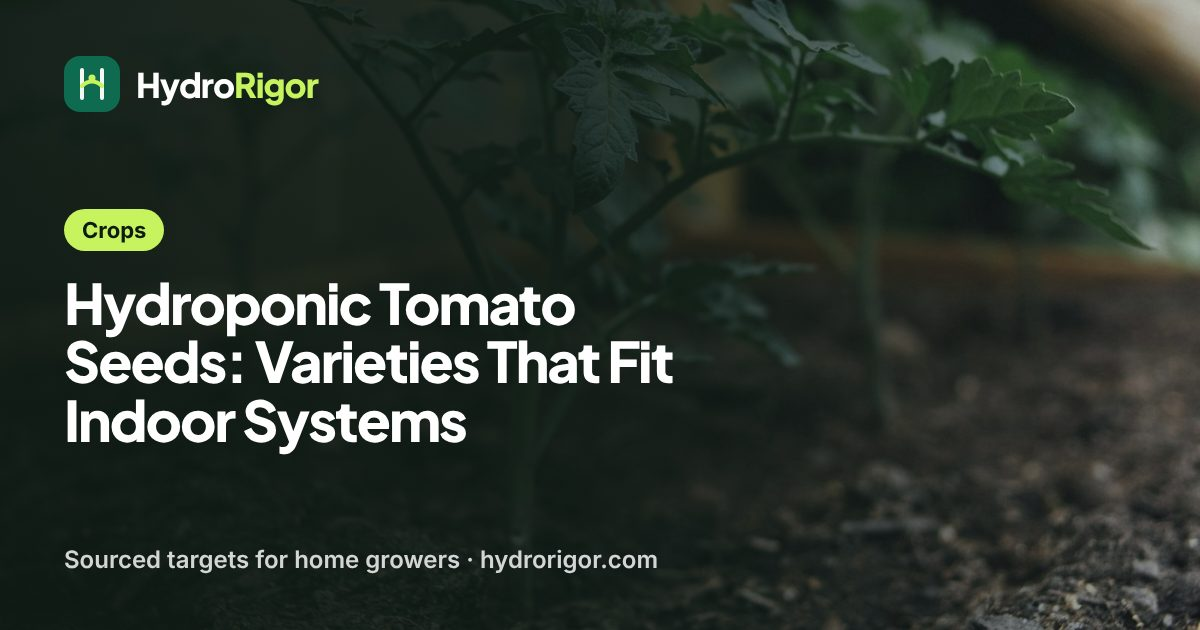
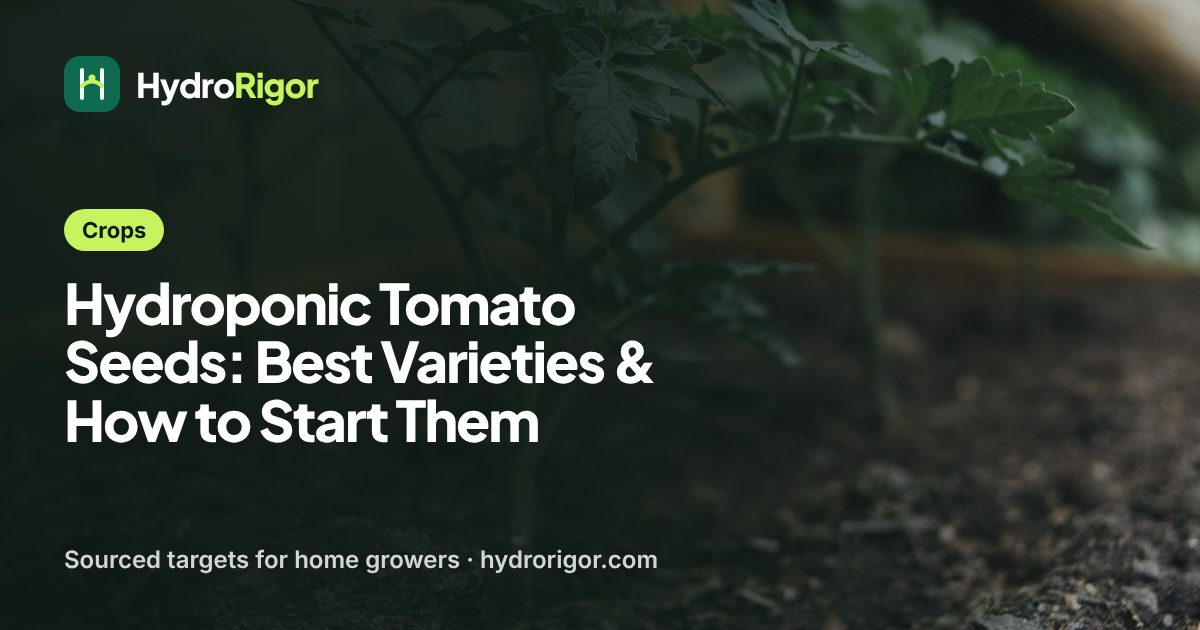
Rebuild tomato seeds guide: varieties by space and how to start them
Queue item 19. Seed chosen by mature size (micro-dwarf, compact,
determinate, indeterminate), University of Florida micro-dwarf trial
table, packet labels and resistance codes, seed-starting steps,
troubleshooting and FAQ. Two phone-size diagrams; two new sources
(UF/IFAS HS987, HortScience 2000), three locators updated from new
reading. Pinterest test now uses a guide that is still short.

Claude-Session: https://claude.ai/code/session_011zSWQv9U5GfhByfPKZnqmb

Changed region(s): [[0.0617, 0.5429, 0.555, 0.7238]]

diff --git a/src/data/editorial-sources/m06.ts b/src/data/editorial-sources/m06.ts
@@ -241,25 +241,25 @@ export const m06EditorialSources = [
     url: 'https://uthort.tennessee.edu/wp-content/uploads/sites/228/2023/11/W844-C.pdf',
     accessedDate: '2026-11-06',
     sourceType: 'university-extension',
-    locator: 'W 844-C (Bumgarner and Hochmuth, 2019): fruiting crops at EC 2.0–3.0 mS/cm for much of the season; seedlings 0.5–1.0, 1.0–1.5 at transplanting; pH often 5.5–6.0; change small recirculating tanks every one to two weeks; top up with source water or concentrate; larger plants cause quicker imbalances; Na and Cl 75 ppm upper limit; blossom-end rot and calcium movement; 8+ hours natural light; daytime 70s °F; pollinate 3–4 times a week at 60–80% humidity; 2–4 weeks to transplant, 7–10 weeks to harvest',
+    locator: 'W 844-C (Bumgarner and Hochmuth, 2019): fruiting crops at EC 2.0–3.0 mS/cm for much of the season; seedlings 0.5–1.0, 1.0–1.5 at transplanting; pH often 5.5–6.0; change small recirculating tanks every one to two weeks; top up with source water or concentrate; larger plants cause quicker imbalances; Na and Cl 75 ppm upper limit; blossom-end rot and calcium movement; 8+ hours natural light; daytime 70s °F; pollinate 3–4 times a week at 60–80% humidity; 2–4 weeks to transplant, 7–10 weeks to harvest; types: beefsteak (most common), cherry, grape, plum, roma/paste, cluster/TOV (p. 2); greenhouse-bred cultivars resist leaf mold and powdery mildew; most greenhouse cultivars indeterminate, determinates more common in home gardens and field production (p. 2); about 90–120 days from seed to first ripe fruit (p. 2); seed cubes at least 1.5 × 1.5 in of peat, coir, rockwool or foam, sow 10–15% extra, about ¼ in of water in the tray, germination 75–85 °F, above 90 °F reduces germination (p. 5); hand pollination recommended, electric toothbrush (p. 7)',
   },
   {
     id: 'ifas-tomato-cultivars',
     title: 'Tomato Cultivar Selection Considerations for Open-Field and Protected Culture in North Florida',
     publisher: 'UF/IFAS Extension',
     url: 'https://ask.ifas.ufl.edu/publication/HS1273',
-    accessedDate: '2026-09-12',
+    accessedDate: '2026-11-14',
     sourceType: 'university-extension',
-    locator: 'Growth habit, protected-culture cultivar selection, and trial context',
+    locator: 'HS1273, Types of Tomato Cultivars: determinate plants stop growing in height once flowers appear at the stem ends and mature fruit over a shorter period; indeterminate plants keep growing with lateral flower clusters only; cluster is a presentation format; hybrids are F1 crosses bred for traits such as disease resistance and are the most widely grown; open-pollinated seed breeds true; heirlooms typically have 50+ years of selection, are usually indeterminate, have little or no disease resistance, crack easily and often fail to set fruit in extreme heat. Protected Agriculture Structures: \'Trust\' the most commonly used greenhouse (hydroponic) cultivar in north Florida for several years; \'Geronimo\' and \'Big Dena\' some success in the Southeast; indeterminate greenhouse plants reach 20–30 ft from September to June, lowered about every two weeks. Table 2 footnote codes: F1/F2/F3 Fusarium wilt races 1–3, V Verticillium wilt, ASC Alternaria stem canker, St gray leaf spot, N nematodes, ToMV tomato mosaic virus, TYLCV tomato yellow leaf curl virus, TSWV tomato spotted wilt virus',
   },
   {
     id: 'usu-indoor-tomatoes',
     title: 'Growing Tomatoes in Winter',
     publisher: 'Utah State University Extension',
     url: 'https://extension.usu.edu/news_sections/gardening/tomatoes',
-    accessedDate: '2026-09-12',
+    accessedDate: '2026-11-14',
     sourceType: 'university-extension',
-    locator: 'Indoor space, cultivar size, containers, lighting, and seed starting',
+    locator: 'Varieties for indoors: Tiny Tim, Micro Tom, Terenzo and Lizzano, small plants typically 1 to 2 feet across, mostly sold as seed; smaller varieties advised indoors; 1-gallon pot for the smallest, 2- or 3-gallon for larger; a pot too large is better than too small; below 50 °F can harm plants; above 90 °F may prevent fruit set; plant tops 3–6 inches from fluorescent bulbs',
   },
   {
     id: 'psu-nutrient-programs',
@@ -539,6 +539,24 @@ export const m06EditorialSources = [
     accessedDate: '2026-11-07',
     sourceType: 'university-research',
     locator: 'Article: sweet basil in deep-flow hydroponics at EC 1.6 mS/cm, pH 6, 72 °F water and a 16-hour photoperiod; spacings 4, 6, 8, 10 and 12 in (9.3, 4.1, 2.3, 1.4 and 1.0 plants per sq ft) at DLI about 6 and 15; higher DLI added 0.3–1.6 oz per sq ft; spacing did not change individual plant weight; recommends 4-inch spacing for single-harvest basil under lights, likely too dense for repeated harvests',
+  },
+  {
+    id: 'ifas-micro-gold-hs987',
+    title: "'Micro-Gold' Miniature Dwarf Tomato (HS987)",
+    publisher: 'UF/IFAS Extension (J.W. Scott and B.K. Harbaugh), 2004',
+    url: 'https://journals.flvc.org/edis/article/download/114588/109920/160548',
+    accessedDate: '2026-11-14',
+    sourceType: 'university-extension',
+    locator: "Table 1 (Bradenton FL greenhouse, spring and fall 1993; single plants in 13-cm, 1-liter pots): height 'Micro-Gold' 12/25 cm, 'Micro-Tom' 10/23 cm, 'Yellow Canary' 22/27 cm (spring/fall); days to fruit color 'Micro-Gold' 96/74, 'Micro-Tom' 92/73; fruit weight (first five fruit) 'Micro-Gold' 7.8/9.8 g, 'Micro-Tom' 6.2/7.5 g; fruit diameter 22–27 mm; fruit per pot 'Micro-Gold' 37/19, 'Micro-Tom' 42/27. Text: 'Micro-Tom' (1989) the smallest tomato cultivar released; non-miniature dwarfs can outgrow small containers while the miniature trait is genetic; 'Micro-Gold' resistant to Fusarium wilt race 1 and gray leaf spot",
+  },
+  {
+    id: 'scott-micro-tina-2000',
+    title: "'Micro-Tina' and 'Micro-Gemma' Miniature Dwarf Tomatoes (HortScience 35(4):774–775)",
+    publisher: 'University of Florida (J.W. Scott, B.K. Harbaugh) and USDA-ARS (E.A. Baldwin), 2000',
+    url: 'https://journals.ashs.org/downloadpdf/view/journals/hortsci/35/4/article-p774.pdf',
+    accessedDate: '2026-11-14',
+    sourceType: 'university-research',
+    locator: "Table 1 (Bradenton FL greenhouse, 1998; single plants in 13-cm, 1-liter pots, spring/fall): height 'Micro-Tina' 11.2/23.2 cm, 'Micro-Tom' 11.6/18.8, 'Micro-Gemma' 12.0/19.2; fruit weight 6.9/5.5, 7.9/4.5, 6.2/5.9 g; fruit per pot 42/45, 39/48, 37/34; days from seeding to first fruit color 91/71, 100/78, 98/75. Text: 'Micro-Tina' red, sweeter than 'Micro-Tom', earliest; 'Micro-Gemma' gold; both resistant to Fusarium wilt race 1 and gray leaf spot; miniature dwarfs are genetically smaller (plant, fruit, leaves, stems) than normal dwarf cultivars",
   },
   {
     id: 'purdue-supplemental-light-lettuce',

diff --git a/src/data/m06-content.ts b/src/data/m06-content.ts
@@ -29,7 +29,7 @@ const items = [
   [9, 'articles', 'crops', 'Hydroponic Lettuce Systems: NFT vs DWC vs Kratky Compared', 'hydroponic-lettuce-systems', 'transactional research', 'hydroponic lettuce systems', 'VERIFIED_2026-09-12', 1000, 28, ['uky-hydroponic-lettuce', 'ifas-lettuce-small-systems', 'ifas-kratky-set-and-forget', 'kratky-noncirculating-lettuce', 'vt-system-crop-comparisons', 'purdue-hydroponics-opportunities-2016', 'sato-modified-nft-2007', 'osu-hydro-hints-nft', 'osu-hydro-hints-dwc', 'okstate-hydroponics-hla6442', 'mu-hydroponic-farming', 'purdue-supplemental-light-lettuce', 'egro-lettuce-tipburn-2023', 'okstate-vertical-tower-hla6724', 'touliatos-vertical-lettuce-2016', 'cornell-cea-lettuce-handbook', 'ifas-lettuce-cultivars'], []],
   [10, 'articles', 'crops', 'Hydroponic Lettuce Seeds: Varieties, Germination & Storage', 'hydroponic-lettuce-seeds', 'transactional research', 'hydroponic lettuce seed', 'VERIFIED_2026-09-12', 2400, 20, ['uky-hydroponic-lettuce', 'ifas-lettuce-cultivars', 'ifas-lettuce-small-systems', 'egro-lettuce-tipburn-2023', 'cornell-cea-lettuce-handbook', 'unl-seed-storage-germination', 'illinois-seed-viability', 'sdsu-seed-storage', 'ifas-thermodormancy'], []],
   [11, 'articles', 'crops', 'Hydroponic Tomatoes: pH, EC, Light, Spacing & Pruning', 'hydroponic-tomatoes', 'transactional research', 'hydroponic tomatoes', 'VERIFIED_2026-09-12', 1900, 29, ['tennessee-fruiting-crops', 'aces-greenhouse-tomato-anr2955', 'utk-trust-tomato-density-2012', 'vt-management-basics-spes462', 'vt-system-crop-comparisons', 'purdue-supplemental-light-lettuce', 'osu-ph-ec-guide', 'ifas-hydroponic-tomato-formulation', 'osu-hydro-hints-buckets', 'ifas-volusia-dwc-bucket', 'msstate-blossom-end-rot', 'mu-hydroponic-farming'], ['/tools/ph-ec-targets/']],
-  [12, 'articles', 'crops', 'Hydroponic Tomato Seeds: Varieties That Fit Indoor Systems', 'hydroponic-tomato-seeds', 'transactional research', 'hydroponic tomatoes seeds', 'VERIFIED_2026-09-12', 480, 16, ['ifas-tomato-cultivars', 'usu-indoor-tomatoes', 'tennessee-fruiting-crops'], []],
+  [12, 'articles', 'crops', 'Hydroponic Tomato Seeds: Best Varieties & How to Start Them', 'hydroponic-tomato-seeds', 'transactional research', 'hydroponic tomatoes seeds', 'VERIFIED_2026-09-12', 480, 16, ['tennessee-fruiting-crops', 'ifas-tomato-cultivars', 'usu-indoor-tomatoes', 'ifas-micro-gold-hs987', 'scott-micro-tina-2000', 'aces-greenhouse-tomato-anr2955', 'utk-trust-tomato-density-2012', 'purdue-supplemental-light-lettuce'], ['/tools/nutrient-mixing-calculator/']],
   [13, 'articles', 'nutrients', "Hydroponic Nutrients: pH, EC & Mixing Guide for Beginners", 'hydroponic-nutrients', 'informational', 'hydroponic nutrients', 'VERIFIED_2026-09-12', 3600, 22, ['psu-plant-nutrition', 'mu-nutrient-solutions', 'osu-ph-ec-guide', 'ua-strawberry-irrigation'], ['/tools/ph-ec-targets/', '/tools/nutrient-mixing-calculator/']],
   [14, 'articles', 'nutrients', 'Hydroponic Nutrient Solution: ppm, EC, pH & When to Change', 'hydroponic-nutrient-solution', 'transactional research', 'hydroponic nutrients solution', 'VERIFIED_2026-09-12', 720, 25, ['mu-nutrient-solutions', 'psu-nutrient-programs', 'psu-plant-nutrition', 'osu-ph-ec-guide', 'ifas-hydroponic-tomato-formulation', 'ohio-state-tomato-nutrient-solution', 'tennessee-fruiting-crops', 'uky-hydroponic-lettuce', 'uky-monitoring-ph-ec', 'ifas-lettuce-small-systems', 'vt-system-crop-comparisons', 'sato-modified-nft-2007', 'gomez-basil-small-scale-2020', 'ua-strawberry-irrigation', 'msstate-tomato-ph', 'msu-calibrate-ph-ec'], ['/tools/ph-ec-targets/', '/tools/nutrient-mixing-calculator/']],
   [15, 'articles', 'nutrients', 'Organic Hydroponic Nutrients: What Works and What to Know', 'organic-hydroponic-nutrients', 'transactional research', 'hydroponic nutrients organic', 'VERIFIED_2026-09-12', 590, 20, ['usda-organic-certification', 'psu-organic-nutrient-study', 'mu-nutrient-solutions'], []],

diff --git a/.agent/state/CURRENT_HANDOFF.md b/.agent/state/CURRENT_HANDOFF.md
@@ -84,6 +84,7 @@ Updated: 2026-11-13
 Guides published by automated runs under `HydroRigor Editorial`. When Najeeb has read one
 and approves, switch its byline to `Najeeb`.
 
+- `/crops/hydroponic-tomato-seeds/` — "Hydroponic Tomato Seeds: Best Varieties & How to Start Them" (rebuild, 2026-11-14; Pinterest row `docs/marketing/pinterest/pins-tomato-seeds-2026-12-01.csv`, upload by Dec 1). Seed chosen by mature size (micro-dwarf, compact, determinate, indeterminate), University of Florida micro-dwarf trial table, packet codes, seed-starting steps and timeline; two new sources (UF/IFAS HS987, HortScience 2000).
 - `/best/hydroponic-ph-meter/` — "pH Meter for Hydroponics: How to Choose & Calibrate" (new guide, plan ID 66, 2026-11-14). Written from the research pack only (web fetches were not available in this run): feature checklist, two-point calibration with pH 7.01 and 4.01, calibration frequency, storage, troubleshooting; no products or current prices; gaps stated (no accuracy or probe-life figures in the sources). Reuses the measuring-beaker photo until a pH meter photo exists.
 - `/systems/kratky-hydroponics/` — "Kratky Hydroponics: No-Pump Setup, Air Gap & Crops" (new guide, plan ID 28, 2026-11-13). Written from the research pack: no pump, 1–2 gal of solution per lettuce plant (UF/IFAS 1–1.5; Kratky VC-1 1.5–2), EC 1.5 and pH 5.5–6.5, pot bottom ½–1 in in the solution, no topping up (emergency ½–1 in only), harvest 4–6 weeks after transplanting; a "where the sources differ" table; two new diagrams (air gap over time; solution per plant). Two new sources registered (Kratky VC-1, 2010; Kratky, Acta Hort. 648, 2004), figures taken from the pack (read 2026-11-07), not re-read in this run. Gaps stated on the page: no Kratky figures for basil or herbs, no tomato volumes. Photo: registry lettuce in net pots (no Kratky bucket photo yet). Linked from five guides. Opened while GitHub Actions was blocked by the account billing problem, so it is unmerged until CI can run.
 - `/nutrients-water/hydroponic-nutrient-solution/` — "Hydroponic Nutrient Solution: ppm, EC, pH & When to Change" (rebuild, 2026-11-13). Direct answer with pH, EC by crop, solution temperature, dissolved oxygen and replacement interval; KeyTargets card; tables for the UF/IFAS tomato formula in ppm by stage, three ways to make a solution (Penn State), EC and pH by crop and stage, source water, temperature and oxygen, top-up versus replace; step-by-step batch, troubleshooting and FAQ; two new diagrams (upkeep cycle; reservoir temperature and oxygen). Source conflicts shown and resolved: strawberry EC (Oklahoma State 1.8–2.2 vs Arizona 1.0 or less; page follows Arizona), lettuce pH (Kentucky 5.5–6.0 vs Oklahoma State 6.0–7.0; page suggests 5.5–6.0), solution temperature (Oklahoma State 72–75 °F, UF/IFAS 65–80 °F, Sato's cited 13–18 °C), replacement interval (Tennessee 1–2 weeks, Oklahoma State about 2, Kentucky 3–4 for lettuce; UF basil trial found topping up matched replacing). Web pages could not be opened in this run (fetch permission timed out), so every figure comes from 16 registered sources; the Missouri, Oklahoma State, Penn State locators were extended with figures already used on the live nutrients guide. Photo kept (lab glassware).

diff --git a/.agent/state/CURRENT_MILESTONE.md b/.agent/state/CURRENT_MILESTONE.md
@@ -86,7 +86,7 @@ impressions in 28 days).
 18. [x] New guide `/best/hydroponic-ph-meter/` (plan ID 66) — published 2026-11-14 ("pH Meter for
         Hydroponics: How to Choose & Calibrate"). "ph meter hydroponics" 590 / 15. No named picks;
         add them only after an affiliate programme is approved.
-19. [ ] `/crops/hydroponic-tomato-seeds/` — rebuild. hydroponic tomatoes seeds (480, difficulty 16).
+19. [x] `/crops/hydroponic-tomato-seeds/` — rebuilt 2026-11-14 ("Hydroponic Tomato Seeds: Best Varieties & How to Start Them"). hydroponic tomatoes seeds (480, difficulty 16).
 20. [ ] `/nutrients-water/organic-hydroponic-nutrients/` — rebuild. "organic hydroponic nutrients" 390 / 18.
 21. [ ] `/systems/smart-indoor-hydroponic-systems/` — rebuild ("click and grow" 5,400 / 35 is the
         nearest brand demand). Move to the top of the queue if Click & Grow approves the owner.

diff --git a/docs/research/search-console/log.md b/docs/research/search-console/log.md
@@ -17,6 +17,7 @@ Figures are copied from Search Console (web search, last 28 days unless noted); 
 
 | Shipped | Page | Change | Check after |
 | --- | --- | --- | --- |
+| 2026-11-14 | /crops/hydroponic-tomato-seeds/ | Full rebuild (seed by space, micro-dwarf trial data, 2 diagrams, 8 sources) | 2026-11-28, 2026-12-12 |
 | 2026-11-14 | /best/hydroponic-ph-meter/ | New guide (ph meter hydroponics 590 / 15) | 2026-11-28, 2026-12-12 |
 | 2026-11-13 | /nutrients-water/hydroponic-nutrients-for-vegetables/ | 3 new internal links (nutrients, nutrient solution, lettuce guides); before: 13 impressions, position 57.6 (Nov 1–10) | 2026-11-27 |
 | 2026-11-13 | /nutrients-water/organic-hydroponic-nutrients/ | 1 new internal link (nutrient solution guide); before: 10 impressions, position 36.5 (Nov 1–10) | 2026-11-27 |
